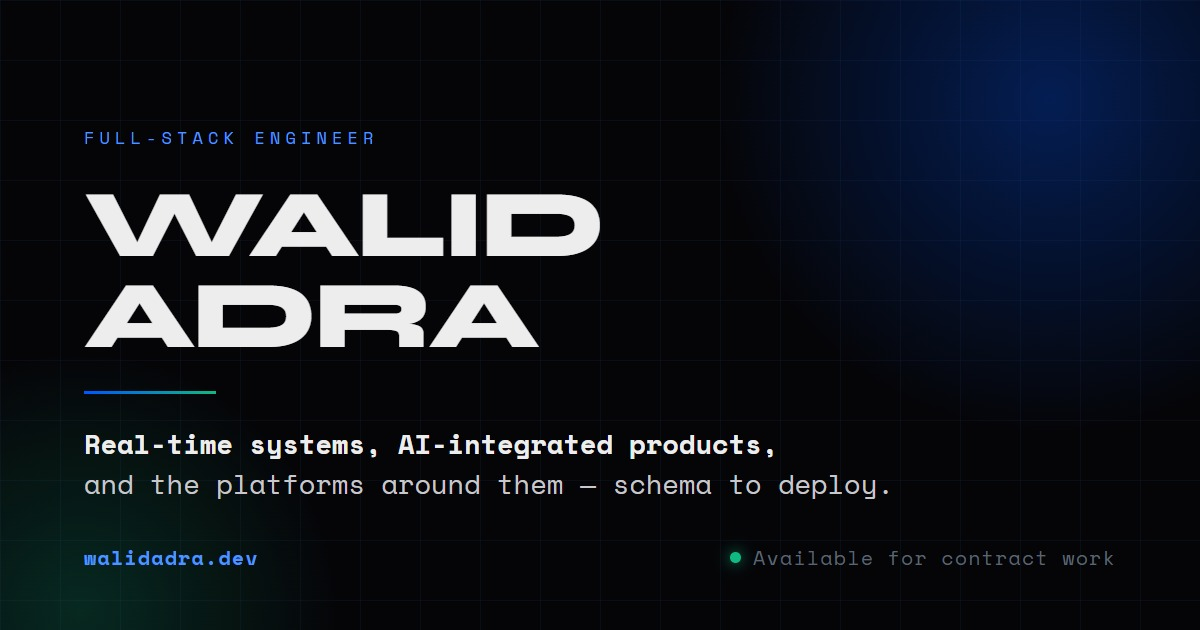
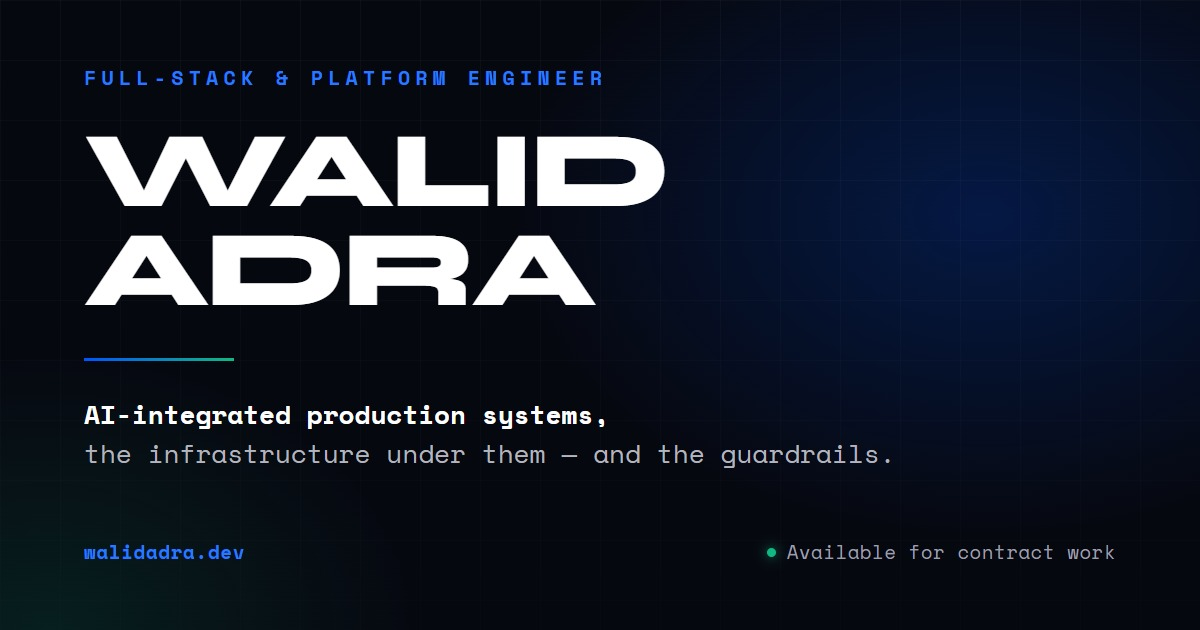
Redraw the share card to match the new positioning
The card still read "Real-time systems, AI-integrated products" - the line the
site itself stopped using. It is the first thing anyone sees when the link is
shared, so it was contradicting the page it links to.

Same design, current words, plus the dimensions and alt text the engineering
page was missing.

diff --git a/engineering.html b/engineering.html
@@ -20,6 +20,9 @@
   <meta name="twitter:title" content="Engineering Notes — Walid Adra">
   <meta name="twitter:description" content="What I build, and what I refuse to let it do.">
   <meta name="twitter:image" content="https://walidadra.dev/assets/images/og-image.jpg">
+  <meta property="og:image:width" content="1200">
+  <meta property="og:image:height" content="630">
+  <meta property="og:image:alt" content="Walid Adra — full-stack and platform engineer. AI-integrated production systems.">
 
   <link rel="canonical" href="https://walidadra.dev/engineering.html">
 

diff --git a/index.html b/index.html
@@ -15,7 +15,7 @@
   <meta property="og:image" content="https://walidadra.dev/assets/images/og-image.jpg">
   <meta property="og:image:width" content="1200">
   <meta property="og:image:height" content="630">
-  <meta property="og:image:alt" content="Walid Adra — full-stack engineer. Real-time systems, AI-integrated products.">
+  <meta property="og:image:alt" content="Walid Adra — full-stack and platform engineer. AI-integrated production systems.">
   <meta property="og:url" content="https://walidadra.dev/">
   <meta property="og:site_name" content="Walid Adra">
 
